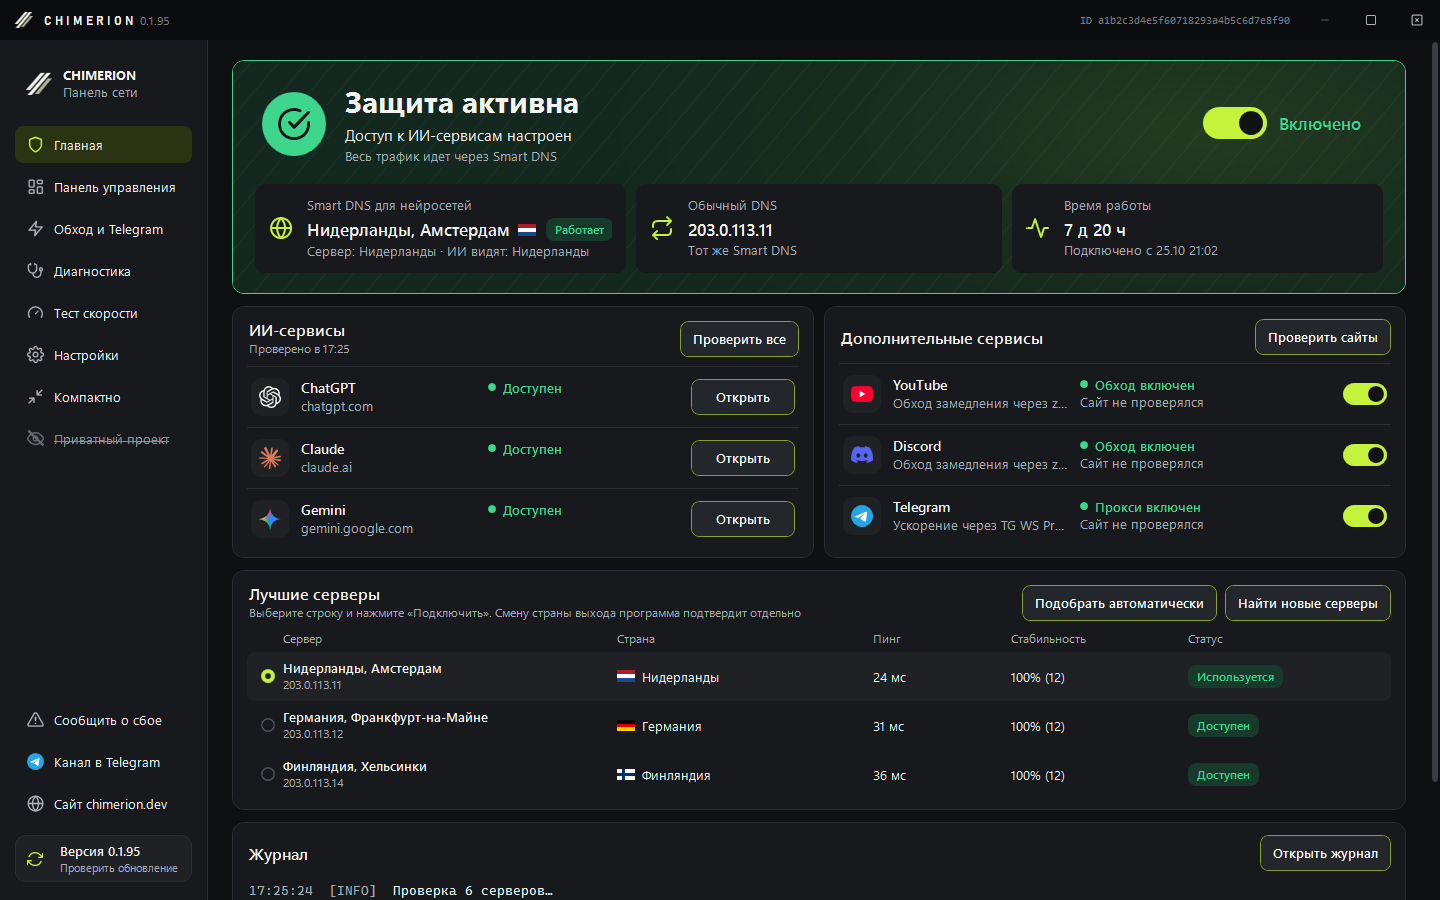
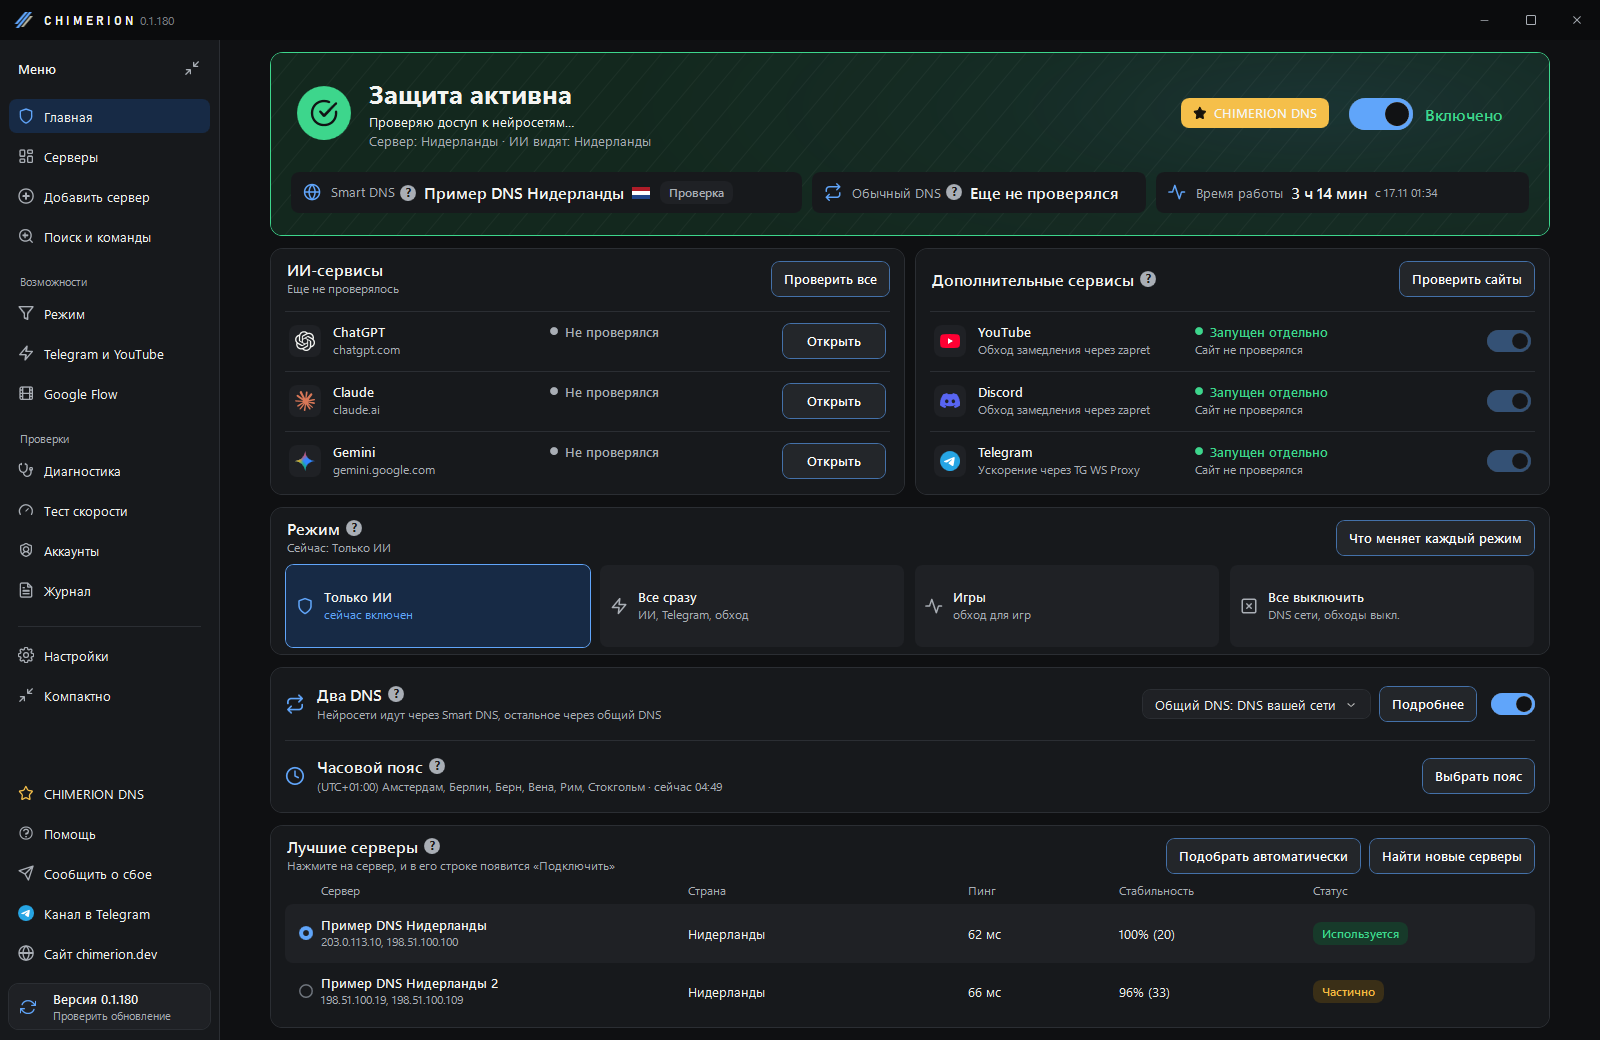
docs: скриншоты README обновлены под 0.1.180, на выдуманных данных (ОТКАТ: git revert этого коммита)
Девять снимков сделаны основным визуальным тестом tools/ui-shots.ps1 на чистой копии данных: серверы из диапазонов документации 203.0.113.0/24 и 198.51.100.0/24, без имени пользователя и реальных адресов. Окна без левого меню обрезаны по содержимому, чтобы текст читался. Снимки диагностики, сайтов для обхода и журнала убраны вместе с четырьмя неиспользуемыми старыми картинками: тест не дает чистых кадров для них, прежний вид окон устарел.

diff --git a/README.md b/README.md
@@ -41,24 +41,25 @@
   <img src="docs/screenshots/chimerion-compact.png" width="190" alt="Компактный вид">
 </p>
 
-«Telegram и YouTube», «Режим» и «Диагностика»:
+«Режим», «Telegram и YouTube», «Помощь» и «Настройки»:
 
 <p>
-  <img src="docs/screenshots/chimerion-tools.png" width="270" alt="Telegram и YouTube">
-  <img src="docs/screenshots/chimerion-mode.png" width="270" alt="Режим">
-  <img src="docs/screenshots/chimerion-diagnostics.png" width="270" alt="Диагностика">
-</p>
-
-«Сайты для обхода», «Два DNS», «Помощь», «Журнал» и «Настройки»:
-
-<p>
-  <img src="docs/screenshots/chimerion-sites.png" width="270" alt="Сайты для обхода">
-  <img src="docs/screenshots/chimerion-split-dns.png" width="200" alt="Два DNS">
-  <img src="docs/screenshots/chimerion-help.png" width="340" alt="Помощь">
+  <img src="docs/screenshots/chimerion-mode.png" width="720" alt="Режим">
 </p>
 <p>
-  <img src="docs/screenshots/chimerion-log.png" width="410" alt="Журнал">
-  <img src="docs/screenshots/chimerion-settings.png" width="400" alt="Настройки">
+  <img src="docs/screenshots/chimerion-tools.png" width="720" alt="Telegram и YouTube">
+</p>
+<p>
+  <img src="docs/screenshots/chimerion-help.png" width="720" alt="Помощь">
+</p>
+<p>
+  <img src="docs/screenshots/chimerion-settings.png" width="720" alt="Настройки">
+</p>
+
+Окно «Два DNS»:
+
+<p>
+  <img src="docs/screenshots/chimerion-split-dns.png" width="330" alt="Два DNS">
 </p>
 
 На снимках выдуманные данные: адреса из диапазонов документации `203.0.113.0/24` и `198.51.100.0/24`, названия серверов условные.
